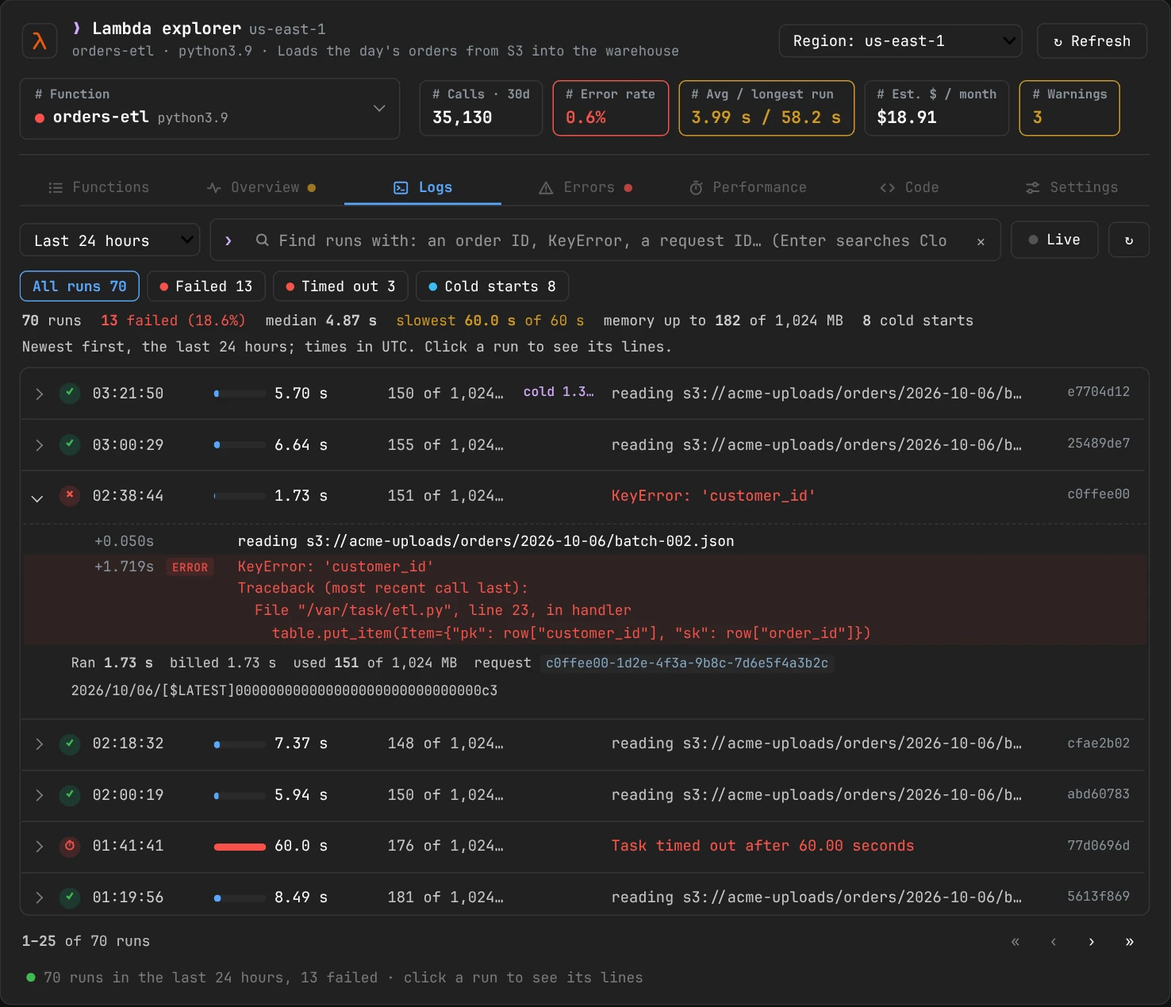
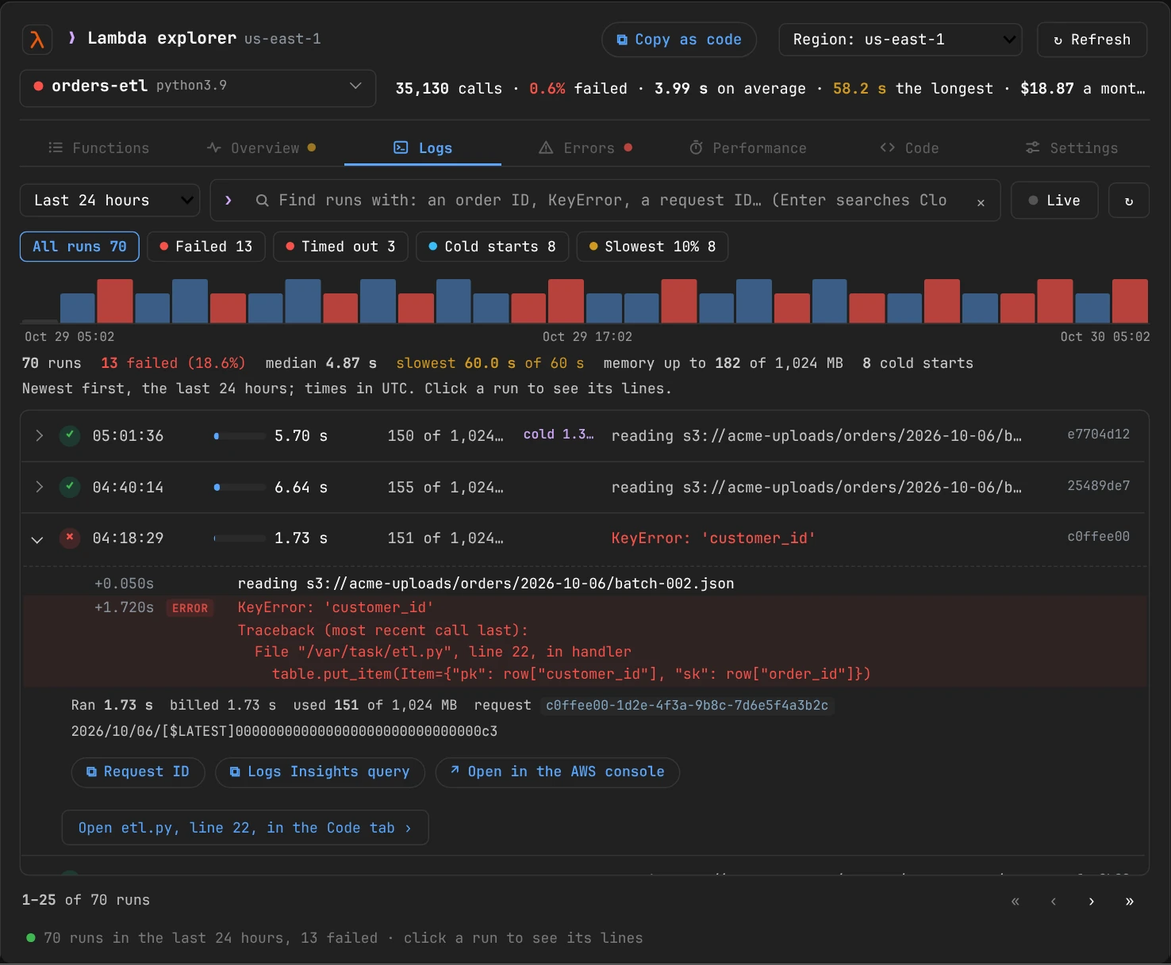
Lambda explorer: a slim header, an open run's links, and the docs for them
- With a function picked, the header is one line of its numbers over 30
  days (calls, failed, avg and max run time, cost, warnings) and loses its
  subtitle, so the tabs get the height; the region keeps its cards.
- The timeline's bars keep their colours under the terminal look.
- The guide, README and CHANGELOG cover the run's request ID, its Logs
  Insights query and console link, the one-call Copy as code, the read
  ahead and the slim header.

Claude-Session: https://claude.ai/code/session_011KqyjUnZQFFurzbSzx544L

diff --git a/src/aws_analyzer/lambda_functions/explorer/function.py b/src/aws_analyzer/lambda_functions/explorer/function.py
@@ -83,6 +83,12 @@ def _destination(arn: str | None) -> tuple[str, str]:
     return kind or "destination", _source_name(arn)[0] or (arn or "-")
 
 
+def _stat_cards_html(cards: list[tuple[str, str, str]]) -> str:
+    items = "".join(f'<div class="lmx-stat {tone}"><span class="l">{_esc(label)}</span><b>{_esc(value)}</b></div>'
+                    for label, value, tone in cards)
+    return f'<div class="lmx-stats">{items}</div>'
+
+
 class _FunctionTab:
     """
     The picked function in LambdaExplorer: opening it, its header (title, cards and alerts), and its Overview
@@ -106,59 +112,79 @@ class _FunctionTab:
 
     def _draw_stats(self) -> None:
         """
-        The cards beside the function field: the region at a glance, or the picked function.
+        Beside the function field: the region at a glance as cards, or, with a function picked, its numbers as one
+        line, so the header stays slim (no subtitle either) and its tabs get the height.
         """
-        now = _utcnow()
-        cards: list[tuple[str, str, str]] = []
-        loading = self._numbers_pending or (self.overview is None and self._listing)
+        _class_if(self.head_box, "lmx-slim", self.function is not None)
         if self.function is None:
-            facts = list(self._facts.values())
-            if self.overview is None:
-                cards = [("Functions", "…", "sk-on"), ("Calls · 30d", "…", "sk-on"), ("Error rate · 30d", "…", "sk-on")]
-            else:
-                read = [f.metrics for f in facts if f.metrics is not None]
-                calls = sum(m.invocations for m in read)
-                failed = sum(m.errors for m in read)
-                costs = [f.cost for f in facts if f.cost is not None]
-                warn = any(_errors_level(f.metrics, now) == "warn" for f in facts)
-                attention = sum(1 for f in facts if f.warnings)
-                cards.append(("Functions", f"{len(facts):,}", ""))
-                cards.append(("Calls · 30d", "…" if loading else _count(round(calls)), "sk-on" if loading else ""))
-                cards.append(("Error rate · 30d", "…" if loading else (_pct(failed / calls) if calls else "-"),
-                              "sk-on" if loading else "warn" if warn else ""))
-                cards.append(("Est. $ / month", "…" if loading else (human_money(sum(costs)) if costs else "-"),
-                              "sk-on" if loading else ""))
-                cards.append(("Need attention", f"{attention:,}", "warn" if attention else "ok" if facts else ""))
+            self._set(self.stats, _stat_cards_html(self._region_cards()))
         else:
-            fn = self._full()
-            f = self._facts.get(self.function.arn)
-            m = self.detail.metrics if self.detail is not None and self.detail.metrics is not None else (
-                f.metrics if f is not None else None)
-            if m is None:
-                waiting = loading or self.detail is None
-                cards += [(label, "…" if waiting else "-", "sk-on" if waiting else "")
-                          for label in ("Calls · 30d", "Error rate · 30d", "Avg / longest · 30d")]
-            else:
-                level = _errors_level(m, now)
-                near = bool(m.duration_max and fn.timeout and m.duration_max >= 0.9 * fn.timeout * 1000)
-                cards.append(("Calls · 30d", _count(round(m.invocations)), ""))
-                cards.append(("Error rate · 30d", _pct(m.error_rate) if m.invocations else "-",
-                              "bad" if level == "warn" else "warn" if level else ""))
-                cards.append(("Avg / longest · 30d", f"{human_ms(m.avg_duration)} / {human_ms(m.duration_max)}"
-                              if m.invocations else "not called in 30 days", "warn" if near else ""))
-            if self.detail is not None:
-                cost = _total(function_monthly_cost(fn, self.detail.metrics, self.detail.provisioned,
-                                                    self.detail.log_group, prices=self.core.prices))
-                warnings = sum(level == "warn" for level, _ in function_findings(
-                    fn, self.detail.metrics, self.detail, prices=self.core.prices, now=now))
-            else:
-                cost = f.cost if f is not None else None
-                warnings = len(f.warnings) if f is not None else 0
-            cards.append(("Est. $ / month", human_money(cost) if cost is not None else "-", ""))
-            cards.append(("Warnings", f"{warnings:,}", "warn" if warnings else "ok"))
-        html_cards = "".join(f'<div class="lmx-stat {tone}"><span class="l">{_esc(label)}</span><b>{_esc(value)}</b>'
-                             "</div>" for label, value, tone in cards)
-        self._set(self.stats, f'<div class="lmx-stats">{html_cards}</div>')
+            self._set(self.stats, self._function_line())
+
+    def _region_cards(self) -> list[tuple[str, str, str]]:
+        """
+        The region's cards: its functions, their calls and error rate over 30 days, the cost and how many need
+        attention.
+        """
+        if self.overview is None:
+            return [("Functions", "…", "sk-on"), ("Calls · 30d", "…", "sk-on"), ("Error rate · 30d", "…", "sk-on")]
+        loading = self._numbers_pending or self._listing
+        facts = list(self._facts.values())
+        read = [f.metrics for f in facts if f.metrics is not None]
+        calls = sum(m.invocations for m in read)
+        failed = sum(m.errors for m in read)
+        costs = [f.cost for f in facts if f.cost is not None]
+        warn = any(_errors_level(f.metrics, _utcnow()) == "warn" for f in facts)
+        attention = sum(1 for f in facts if f.warnings)
+        waiting = "sk-on" if loading else ""
+        return [
+            ("Functions", f"{len(facts):,}", ""),
+            ("Calls · 30d", "…" if loading else _count(round(calls)), waiting),
+            ("Error rate · 30d", "…" if loading else (_pct(failed / calls) if calls else "-"),
+             waiting or ("warn" if warn else "")),
+            ("Est. $ / month", "…" if loading else (human_money(sum(costs)) if costs else "-"), waiting),
+            ("Need attention", f"{attention:,}", "warn" if attention else "ok" if facts else ""),
+        ]
+
+    def _function_numbers(self) -> list[tuple[str, str, str]]:
+        """
+        The picked function's numbers, (value, what it is, tone): its calls, failed share and run times over 30
+        days, its cost and its warnings.
+        """
+        fn, now = self._full(), _utcnow()
+        f = self._facts.get(fn.arn)
+        m = self.detail.metrics if self.detail is not None and self.detail.metrics is not None else (
+            f.metrics if f is not None else None)
+        if m is None:
+            waiting = self._numbers_pending or self.detail is None
+            parts = [("…" if waiting else "-", "calls", "sk-on" if waiting else "")]
+        elif not m.invocations:
+            parts = [("0", "calls", "")]
+        else:
+            level = _errors_level(m, now)
+            near = bool(m.duration_max and fn.timeout and m.duration_max >= 0.9 * fn.timeout * 1000)
+            parts = [(_count(round(m.invocations)), "calls", ""),
+                     (_pct(m.error_rate), "failed", "bad" if level == "warn" else "warn" if level else ""),
+                     (human_ms(m.avg_duration), "avg", ""),
+                     (human_ms(m.duration_max), "max", "warn" if near else "")]
+        if self.detail is not None:
+            cost = _total(function_monthly_cost(fn, self.detail.metrics, self.detail.provisioned,
+                                                self.detail.log_group, prices=self.core.prices))
+            warnings = sum(level == "warn" for level, _ in function_findings(
+                fn, self.detail.metrics, self.detail, prices=self.core.prices, now=now))
+        else:
+            cost = f.cost if f is not None else None
+            warnings = len(f.warnings) if f is not None else 0
+        parts.append((f"{human_money(cost)}/mo" if cost is not None else "-", "", ""))
+        parts.append((f"{warnings:,}", "warning" if warnings == 1 else "warnings", "warn" if warnings else "ok"))
+        return parts
+
+    def _function_line(self) -> str:
+        pieces = " · ".join(f'<span class="{tone}"><b>{_esc(value)}</b>{" " if words else ""}{_esc(words)}</span>'
+                            for value, words, tone in self._function_numbers())
+        return (f'<div class="lmx-line" title="CloudWatch, the last 30 days: calls, the share that failed, the '
+                'average and longest run time; the monthly cost is estimated at list prices">'
+                f'{pieces}<span class="w"> · 30 days</span></div>')
 
     def _draw_alerts(self) -> None:
         """

diff --git a/src/aws_analyzer/lambda_functions/explorer/frame.py b/src/aws_analyzer/lambda_functions/explorer/frame.py
@@ -473,6 +473,22 @@ body[class*=vscode-] .lmx-app.lmx-app .lmx-page{height:620px}
 .lmx-app .src pre.txt{flex:1 1 auto;user-select:text}
 .lmx-app .src.hit pre{background:linear-gradient(var(--lx-hit),var(--lx-hit)) no-repeat 0 calc(8px + var(--mark) * 1.55em)/100% 1.55em}
 .lmx-app .srcx{margin:0 0 12px}
+.lmx-app.lmx-app .lmx-head.lmx-slim{gap:6px;padding-bottom:8px;margin-bottom:8px}
+.lmx-app.lmx-app .lmx-head.lmx-slim .lmx-sub{display:none}
+.lmx-app.lmx-app .lmx-head.lmx-slim .lmx-logo{width:26px;height:26px}
+.lmx-app.lmx-app .lmx-head.lmx-slim .lmx-meta{align-items:center;flex-wrap:nowrap}
+.lmx-app.lmx-app .lmx-head.lmx-slim .lmx-trig{min-height:32px}
+.lmx-app.lmx-app .lmx-head.lmx-slim .lmx-field{flex:0 0 300px;width:300px}
+.lmx-app.lmx-app .lmx-head.lmx-slim .fx{padding:6px 34px 6px 12px}
+.lmx-app.lmx-app .lmx-head.lmx-slim .fxl{display:none}
+.lmx-app.lmx-app .lmx-head.lmx-slim .fxv{margin-top:0}
+.lmx-app .lmx-line{font-size:12.5px;line-height:32px;white-space:nowrap;overflow:hidden;text-overflow:ellipsis;min-width:0}
+.lmx-app .lmx-line b{font-weight:650}
+.lmx-app .lmx-line .bad b{color:var(--lx-ink-bad)}
+.lmx-app .lmx-line .warn b{color:var(--lx-ink-warn)}
+.lmx-app .lmx-line .ok b{color:var(--lx-ink-ok)}
+.lmx-app .lmx-line .sk-on b{opacity:.5}
+.lmx-app .lmx-line .w{opacity:.6}
 .lmx-app .lmx-vc{align-self:center;margin:0 8px 0 0}
 .lmx-app .lmx-vc .cpy,.lmx-app .ract .cpy{position:relative;display:inline-flex;align-items:center;height:30px;padding:0 12px;border-radius:999px;border:1px solid var(--lx-line-2);background:var(--lx-tint);color:var(--lx-accent);font-size:12.5px;font-weight:600;white-space:nowrap;cursor:pointer;user-select:all;-webkit-user-select:all}
 .lmx-app .lmx-vc .cpy::before{content:"\\29C9\\2002 Copy as code"}
@@ -489,11 +505,11 @@ body[class*=vscode-] .lmx-app.lmx-app .lmx-page{height:620px}
 .lmx-app .lmx-vc .cpy .cpt,.lmx-app .ract .cpy .cpt{position:absolute;left:0;top:0;width:1px;height:1px;overflow:hidden;clip-path:inset(50%);white-space:pre}
 .lmx-app .lmx-vc .cpy ::selection,.lmx-app .lmx-vc .cpy::selection,.lmx-app .ract .cpy ::selection,.lmx-app .ract .cpy::selection{background:transparent}
 .lmx-app.lmx-app .lmx-timeline{height:38px;align-items:flex-end;gap:2px;margin:6px 0 0;padding:0 2px;border-bottom:1px solid var(--lx-line)}
-.lmx-app.lmx-app button.lmx-tbar{min-width:3px;padding:0;margin:0;border:0;border-radius:2px 2px 0 0;background:color-mix(in srgb,var(--lx-accent) 45%,transparent);box-shadow:none}
-.lmx-app.lmx-app button.lmx-tbar.lmx-bad{background:color-mix(in srgb,var(--lx-bad) 70%,transparent)}
-.lmx-app.lmx-app button.lmx-tbar:hover:enabled{filter:brightness(.85)}
-.lmx-app.lmx-app button.lmx-tbar:disabled{background:var(--lx-line);opacity:1;cursor:default}
-.lmx-app.lmx-app button.lmx-tbar.lmx-on{outline:2px solid var(--lx-accent);outline-offset:1px}
+.lmx-app.lmx-app button.lmx-tbar.lmx-tbar{min-width:3px;padding:0;margin:0;border:0;border-radius:2px 2px 0 0;background:color-mix(in srgb,var(--lx-accent) 45%,transparent);box-shadow:none}
+.lmx-app.lmx-app button.lmx-tbar.lmx-tbar.lmx-bad{background:color-mix(in srgb,var(--lx-bad) 70%,transparent)}
+.lmx-app.lmx-app button.lmx-tbar.lmx-tbar:hover:enabled{filter:brightness(.85)}
+.lmx-app.lmx-app button.lmx-tbar.lmx-tbar:disabled{background:var(--lx-line);opacity:1;cursor:default}
+.lmx-app.lmx-app button.lmx-tbar.lmx-tbar.lmx-on{outline:2px solid var(--lx-accent);outline-offset:1px}
 .lmx-app .lmx-taxis{display:flex;justify-content:space-between;font-size:10.5px;opacity:.55;margin:2px 2px 4px}
 .lmx-app .lmx-changed{display:flex;align-items:center;gap:10px;margin:6px 0;font-size:11.5px;color:var(--lx-accent-2)}
 .lmx-app .lmx-changed::before,.lmx-app .lmx-changed::after{content:"";flex:1 1 auto;border-top:1.5px dashed var(--lx-accent-2);opacity:.55}

diff --git a/tests/test_lambda_functions.py b/tests/test_lambda_functions.py
@@ -104,6 +104,8 @@ from aws_analyzer.lambda_functions import (
     search_rank,
     secret_like,
     source_files,
+    run_console_url,
+    run_insights_query,
     run_timeline,
     slow_cutoff,
     split_runs,
@@ -2543,8 +2545,8 @@ def test_explorer_lists_the_functions_and_opens_one(explorer):
     row_of(x, "etl-nightly").button.click()
     assert x.function.name == "etl-nightly" and x._tab == "overview" and x.detail.function.tags == {"team": "ml"}
     assert "etl-nightly python3.9" in plain(x.field.face.value) and "lmx-on" in row_of(x, "etl-nightly").box._dom_classes
-    assert plain(x.stats.value) == ("Calls · 30d 1,000 Error rate · 30d 4.0% Avg / longest · 30d 250 ms / 4m 10s "
-                                    "Est. $ / month <$0.01 Warnings 3")
+    assert plain(x.stats.value) == "1,000 calls · 4.0% failed · 250 ms avg · 4m 10s max · <$0.01/mo · 3 warnings · 30 days"
+    assert "lmx-slim" in x.head_box._dom_classes
     overview = plain(x.overview_view.value)
     assert "Runtime python3.9 (ended) Memory 1,024 MB Timeout 900 s Architecture x86_64 Triggers 2" in overview
     assert "Calls (30d)" not in overview  # the header shows the numbers
@@ -3032,6 +3034,27 @@ def test_explorer_gives_the_call_that_reopens_it(core, explorer):
     assert [run.request_id for run in again._found_runs] == [RID]
     assert again._view_code() == "explore('etl-nightly', tab='logs', since='3h', search='loading')"
 
+
+
+
+def test_a_run_in_the_console_and_in_logs_insights():
+    url = run_console_url("us-east-1", "/aws/lambda/etl", "2026/10/06/[$LATEST]abc", RID)
+    assert url == ("https://us-east-1.console.aws.amazon.com/cloudwatch/home?region=us-east-1#logsV2:log-groups/"
+                   "log-group/$252Faws$252Flambda$252Fetl/log-events/2026$252F10$252F06$252F$255B$2524LATEST$255Dabc"
+                   f"$3FfilterPattern$3D$2522{RID}$2522")
+    assert run_console_url("cn-north-1", "g", "s", "r").startswith("https://cn-north-1.console.amazonaws.cn/")
+    assert run_insights_query(RID) == (f'fields @timestamp, @message\n| filter @requestId = "{RID}" or @message like '
+                                       f'"{RID}"\n| sort @timestamp asc')
+
+
+def test_explorer_open_run_has_its_actions(core, explorer):
+    x = explorer("etl-nightly", tab="logs")
+    x._run_rows[0].button.click()
+    body = x._run_rows[0].body.value
+    assert f'<span class="cpt">{RID}</span>' in body and "filter @requestId" in body
+    stream = x._run_rows[0].run.stream
+    assert html.escape(run_console_url(REGION, "/aws/lambda/etl-nightly", stream, RID)) in body
+    assert 'target="_blank"' in body and "Open in the AWS console" in body
 
 
 NESTED = zipped({

diff --git a/src/aws_analyzer/lambda_functions/explorer/window.py b/src/aws_analyzer/lambda_functions/explorer/window.py
@@ -453,6 +453,7 @@ class LambdaExplorer(_FunctionsTab, _FunctionTab, _LogsTab, _Timeline, _ErrorsTa
         meta.add_class("lmx-meta")
         head = w.VBox([top, meta], layout=layout(width="100%"))
         head.add_class("lmx-head")
+        self.head_box = head
 
         tabs = self._tab_bar(_EXPLORER_TABS)
 

diff --git a/docs/lambda_functions.md b/docs/lambda_functions.md
@@ -163,12 +163,12 @@ ui.explore("orders-etl")                 # from a LambdaView
 
 ??? more "The top of the window, and without ipywidgets"
 
-    **The top of the window** is the region field, the function field and their cards. **⧉ Copy as code** beside the region field holds the code that opens the window as it is now (the function, its tab, the region, and on the Logs tab the time range and the search): click it, press <kbd>Ctrl</kbd>+<kbd>C</kbd>, and paste it in another cell or a message. A function you open again within 5 minutes shows at once, as the window read it then; **↻ Refresh** reads everything again. The region field switches to another region, or to every region at once. Click the function field for every function, with a search box that finds one by its name, description, runtime or region; Enter picks the first, and a function's ARN or console link works too, even one in another region. With no function picked, the cards sum up the region: its functions, their calls and error rate over 30 days (each card names its window), the estimated monthly cost, and how many need attention. With one picked, they're its own. The line at the bottom of the window says what's going on.
+    **The top of the window** is the region field, the function field and their cards. **⧉ Copy as code** beside the region field holds the one call that opens the window as it is now, such as `explore('orders-etl', tab='logs', since='3h', search='KeyError')`: click it, press <kbd>Ctrl</kbd>+<kbd>C</kbd>, and paste it in another cell or a message. Once a function is picked, the header shrinks to one line of its numbers over 30 days, so the tabs get the height. When the list loads, the window reads the function at the top of its problems in the background, so the one you're most likely to click opens at once; a function you open again within 5 minutes shows at once too, as the window read it then. **↻ Refresh** reads everything again. The region field switches to another region, or to every region at once. Click the function field for every function, with a search box that finds one by its name, description, runtime or region; Enter picks the first, and a function's ARN or console link works too, even one in another region. With no function picked, the cards sum up the region: its functions, their calls and error rate over 30 days (each card names its window), the estimated monthly cost, and how many need attention. With one picked, they're its own. The line at the bottom of the window says what's going on.
 
     The window needs `ipywidgets`, which SageMaker notebooks already have (elsewhere, `%pip install ipywidgets`, then reload the browser tab). Without it, or outside Jupyter, `explore()` shows the same as reports: [`functions()`](#functions), or for one function [`function_info()`](#function-info) or the report of the tab you asked for.
 
-![The Functions tab of the explorer: the region field, the function field and cards for 5 functions, 192,496 calls in 30 days, a 0.3% error rate over 30 days, $93.59 a month and 4 that need attention; chips for the functions that need attention, have errors, run an old runtime, are public or weren't called; and the list, problems first, each with a bar a day for its last 14 days of calls: orders-etl on python3.9 (ended), its line saying in red that 224 of 35,130 calls failed (0.6%) in the last 30 days, report-api on nodejs20.x (ended), its line saying its runtime reached end of support, churn-scoring, feature-backfill not called in 30 days, and support-agent-actions with its description, each with its calls, error rate, average run time, monthly cost and when it was last called](images/lambda-explorer-light.webp#only-light){ width="984" height="861" loading=lazy }
-![The Functions tab of the explorer: the region field, the function field and cards for 5 functions, 192,496 calls in 30 days, a 0.3% error rate over 30 days, $93.59 a month and 4 that need attention; chips for the functions that need attention, have errors, run an old runtime, are public or weren't called; and the list, problems first, each with a bar a day for its last 14 days of calls: orders-etl on python3.9 (ended), its line saying in red that 224 of 35,130 calls failed (0.6%) in the last 30 days, report-api on nodejs20.x (ended), its line saying its runtime reached end of support, churn-scoring, feature-backfill not called in 30 days, and support-agent-actions with its description, each with its calls, error rate, average run time, monthly cost and when it was last called](images/lambda-explorer-dark.webp#only-dark){ width="984" height="861" loading=lazy }
+![The Functions tab of the explorer: the region field, the function field and cards for 5 functions, 192,496 calls in 30 days, a 0.3% error rate over 30 days, $93.59 a month and 4 that need attention; chips for the functions that need attention, have errors, run an old runtime, are public or weren't called; and the list, problems first, each with a bar a day for its last 14 days of calls: orders-etl on python3.9 (ended), its line saying in red that 224 of 35,130 calls failed (0.6%) in the last 30 days, report-api on nodejs20.x (ended), its line saying its runtime reached end of support, churn-scoring, feature-backfill not called in 30 days, and support-agent-actions with its description, each with its calls, error rate, average run time, monthly cost and when it was last called](images/lambda-explorer-light.webp#only-light){ width="984" height="863" loading=lazy }
+![The Functions tab of the explorer: the region field, the function field and cards for 5 functions, 192,496 calls in 30 days, a 0.3% error rate over 30 days, $93.59 a month and 4 that need attention; chips for the functions that need attention, have errors, run an old runtime, are public or weren't called; and the list, problems first, each with a bar a day for its last 14 days of calls: orders-etl on python3.9 (ended), its line saying in red that 224 of 35,130 calls failed (0.6%) in the last 30 days, report-api on nodejs20.x (ended), its line saying its runtime reached end of support, churn-scoring, feature-backfill not called in 30 days, and support-agent-actions with its description, each with its calls, error rate, average run time, monthly cost and when it was last called](images/lambda-explorer-dark.webp#only-dark){ width="984" height="863" loading=lazy }
 /// caption
 **Functions**: every function with its last 14 days, what's wrong with it, its calls, error rate, run time and cost, the ones that need attention first.
 ///
@@ -215,8 +215,8 @@ The **Logs** tab is CloudWatch grouped the way you think about it: one line per 
 
 Each run shows how long it ran against the timeout, the memory it used, a cold start, and what made it fail. Times are in UTC, or in the zone [`set_timezone()`](index.md#timezone) picked.
 
-![The Logs tab of orders-etl over the last 24 hours: the time range, the search box, Live and ↻; chips for all 70 runs, 13 failed, 3 timed out, 8 cold starts and the slowest 10%; a timeline of the 24 hours, a bar for each slice, red where runs failed; a line saying 70 runs, 13 failed (18.6%), a median of 4.87 s, the slowest 60.0 s of 60 s, memory up to 182 of 1,024 MB and 8 cold starts; then the runs, newest first, each with its time, a ✓ or ✕, a bar of its run time against the timeout, its memory and its first line; a failed run is open, showing reading s3://acme-uploads/orders/2026-10-06/batch-002.json at +0.050s, then KeyError: 'customer_id' and its traceback in red, then Ran 1.73 s, billed 1.73 s, used 151 of 1,024 MB and its request ID, and a button that opens etl.py, line 22, in the Code tab; under it a run that timed out after 60.0 s with a full red bar](images/lambda-explorer-logs-light.webp#only-light){ width="984" height="861" loading=lazy }
-![The Logs tab of orders-etl over the last 24 hours: the time range, the search box, Live and ↻; chips for all 70 runs, 13 failed, 3 timed out, 8 cold starts and the slowest 10%; a timeline of the 24 hours, a bar for each slice, red where runs failed; a line saying 70 runs, 13 failed (18.6%), a median of 4.87 s, the slowest 60.0 s of 60 s, memory up to 182 of 1,024 MB and 8 cold starts; then the runs, newest first, each with its time, a ✓ or ✕, a bar of its run time against the timeout, its memory and its first line; a failed run is open, showing reading s3://acme-uploads/orders/2026-10-06/batch-002.json at +0.050s, then KeyError: 'customer_id' and its traceback in red, then Ran 1.73 s, billed 1.73 s, used 151 of 1,024 MB and its request ID, and a button that opens etl.py, line 22, in the Code tab; under it a run that timed out after 60.0 s with a full red bar](images/lambda-explorer-logs-dark.webp#only-dark){ width="984" height="861" loading=lazy }
+![The Logs tab of orders-etl over the last 24 hours: the time range, the search box, Live and ↻; chips for all 70 runs, 13 failed, 3 timed out, 8 cold starts and the slowest 10%; a timeline of the 24 hours, a bar for each slice, red where runs failed; a line saying 70 runs, 13 failed (18.6%), a median of 4.87 s, the slowest 60.0 s of 60 s, memory up to 182 of 1,024 MB and 8 cold starts; then the runs, newest first, each with its time, a ✓ or ✕, a bar of its run time against the timeout, its memory and its first line; a failed run is open, showing reading s3://acme-uploads/orders/2026-10-06/batch-002.json at +0.050s, then KeyError: 'customer_id' and its traceback in red, then Ran 1.73 s, billed 1.73 s, used 151 of 1,024 MB and its request ID, and a button that opens etl.py, line 22, in the Code tab; under it a run that timed out after 60.0 s with a full red bar](images/lambda-explorer-logs-light.webp#only-light){ width="984" height="811" loading=lazy }
+![The Logs tab of orders-etl over the last 24 hours: the time range, the search box, Live and ↻; chips for all 70 runs, 13 failed, 3 timed out, 8 cold starts and the slowest 10%; a timeline of the 24 hours, a bar for each slice, red where runs failed; a line saying 70 runs, 13 failed (18.6%), a median of 4.87 s, the slowest 60.0 s of 60 s, memory up to 182 of 1,024 MB and 8 cold starts; then the runs, newest first, each with its time, a ✓ or ✕, a bar of its run time against the timeout, its memory and its first line; a failed run is open, showing reading s3://acme-uploads/orders/2026-10-06/batch-002.json at +0.050s, then KeyError: 'customer_id' and its traceback in red, then Ran 1.73 s, billed 1.73 s, used 151 of 1,024 MB and its request ID, and a button that opens etl.py, line 22, in the Code tab; under it a run that timed out after 60.0 s with a full red bar](images/lambda-explorer-logs-dark.webp#only-dark){ width="984" height="811" loading=lazy }
 /// caption
 **Logs**: orders-etl's last 24 hours, run by run, with a failed run open: its traceback, and its REPORT line summed up.
 ///
@@ -229,6 +229,7 @@ Each run shows how long it ran against the timeout, the memory it used, a cold s
     - **A dashed line across the runs** marks when the function was last changed (its code or settings): the runs under it ran it as it was before.
     - **The timeline** over the runs is a bar for each thirtieth of the time read, as tall as the runs that started in it and red where some failed. Click a bar for only those runs, and again for every run.
     - **Slowest 10%** shows the runs that took the longest (with 10 runs or more read).
+    - **An open run** has its request ID and a CloudWatch Logs Insights query for it to copy (click, then <kbd>Ctrl</kbd>+<kbd>C</kbd>), and **↗ Open in the AWS console**, its log stream filtered to that run.
     - **A failed run's traceback** (Python's `File "/var/task/etl.py", line 22`, or a Node.js stack) gets a button under its lines that opens that file in the Code tab, the lines around the failing one at the top and that line shaded in the whole file below. Frames in libraries the package bundles are skipped for the function's own code.
     - **Live** looks for new lines every 5 seconds and puts the new runs at the top, to watch a function while you test it. It stops when you leave the tab, and after 15 minutes.
 
@@ -647,7 +648,7 @@ lam.versions("orders-etl")                        # Version per published versio
 diff = lam.diff("orders-etl", 3)                  # VersionDiff: .files (FileChange: lines, definitions), .libraries, .settings
 ```
 
-The analysis functions don't call AWS, so they also work on data you already have: `parse_function`, `parse_policy`, `parse_event_source_mapping`, `runtime_status`, `function_monthly_cost`, `provisioned_monthly_cost`, `classify_error`, `group_errors`, `change_effect` (its calls and errors before and after its last change), `cause_search` (what to search the logs for to find a cause's runs), `code_frames` and `failing_frame` (the lines of the package a traceback names), `parse_report`, `split_runs` (log lines grouped into runs), `run_timeline` (runs counted by slice of time), `slow_cutoff` (the run time of the slowest 10%), `line_level`, `percentile`, `suggest_memory`, `handler_file`, `read_package` (a .zip you already have), `package_file_name`, `page_file_name`, `secret_like`, `source_files` (a package's own source files), `read_sources` (`sources()`: the text of a .zip's own source files), `search_package` and `find_symbol_in` (`search_code()` and `find_symbol()` on a .zip's bytes), `map_code` (Python code read with `ast`, [above](#how-it-works)), `map_package` (the same from a .zip's bytes), `code_graph` (a CodeMap as boxes and arrows, with `.mermaid()`), `diff_packages` (`diff()` on two .zip files you already have), `diff_settings`, `version_before` (the version `diff()` compares with), `stream_version` (the version a log stream's name says ran), and the findings: `function_findings`, `account_findings`, `error_findings`, `performance_findings`, `package_findings`, `code_map_findings`, `diff_findings`.
+The analysis functions don't call AWS, so they also work on data you already have: `parse_function`, `parse_policy`, `parse_event_source_mapping`, `runtime_status`, `function_monthly_cost`, `provisioned_monthly_cost`, `classify_error`, `group_errors`, `change_effect` (its calls and errors before and after its last change), `cause_search` (what to search the logs for to find a cause's runs), `code_frames` and `failing_frame` (the lines of the package a traceback names), `parse_report`, `split_runs` (log lines grouped into runs), `run_timeline` (runs counted by slice of time), `slow_cutoff` (the run time of the slowest 10%), `run_console_url` and `run_insights_query` (a run in the AWS console and in Logs Insights), `line_level`, `percentile`, `suggest_memory`, `handler_file`, `read_package` (a .zip you already have), `package_file_name`, `page_file_name`, `secret_like`, `source_files` (a package's own source files), `read_sources` (`sources()`: the text of a .zip's own source files), `search_package` and `find_symbol_in` (`search_code()` and `find_symbol()` on a .zip's bytes), `map_code` (Python code read with `ast`, [above](#how-it-works)), `map_package` (the same from a .zip's bytes), `code_graph` (a CodeMap as boxes and arrows, with `.mermaid()`), `diff_packages` (`diff()` on two .zip files you already have), `diff_settings`, `version_before` (the version `diff()` compares with), `stream_version` (the version a log stream's name says ran), and the findings: `function_findings`, `account_findings`, `error_findings`, `performance_findings`, `package_findings`, `code_map_findings`, `diff_findings`.
 
 ```python
 from aws_analyzer.lambda_functions import parse_report, runtime_status, suggest_memory

diff --git a/README.md b/README.md
@@ -1924,7 +1924,7 @@ lam.diff("orders-etl", 3).files                        # FileChange per changed 
 
 The analysis functions are pure (no AWS calls), so they also work on configurations, policies and log lines you
 already have: `parse_function`, `parse_policy`, `parse_event_source_mapping`, `runtime_status`,
-`function_monthly_cost`, `provisioned_monthly_cost`, `classify_error`, `group_errors`, `change_effect`, `cause_search`, `code_frames`, `failing_frame`, `parse_report`, `split_runs`, `run_timeline`, `slow_cutoff`
+`function_monthly_cost`, `provisioned_monthly_cost`, `classify_error`, `group_errors`, `change_effect`, `cause_search`, `code_frames`, `failing_frame`, `parse_report`, `split_runs`, `run_timeline`, `slow_cutoff`, `run_console_url`, `run_insights_query`
 (log lines grouped into runs), `line_level`, `percentile`, `suggest_memory`, `handler_file`, `read_package`,
 `package_file_name`, `page_file_name`, `secret_like`, `source_files` (a package's own source files),
 `read_sources` (sources(): the text of a .zip's own source files), `search_package` and `find_symbol_in` (search_code and find_symbol on a .zip's bytes), `map_code` (Python code read with `ast`: `map_code({"app.py": source},

diff --git a/CHANGELOG.md b/CHANGELOG.md
@@ -23,8 +23,13 @@ changes what one shows, and a patch (0.1.1) only fixes things. A change that cou
 
 - ⚡ **Lambda explorer: a timeline, the slowest runs and code to reopen it** ([#172](https://github.com/utkarsh5026/aws-analyzer/pull/172))
   - The Logs tab draws its runs over time, red where they failed; click a bar for only those runs. **Slowest 10%** picks out the slow ones.
-  - **⧉ Copy as code** holds the code that opens the window as it is now, to run in another cell or send to someone.
+  - **⧉ Copy as code** holds the one call that opens it as it is now: `explore('orders-etl', tab='logs', since='3h', search='KeyError')`.
   - A function you open again within 5 minutes shows at once; ↻ Refresh reads it again.
+
+- ⚡ **Lambda explorer: a run's links, a slim header, the first problem read ahead** ([#172](https://github.com/utkarsh5026/aws-analyzer/pull/172))
+  - An open run has its request ID and a Logs Insights query to copy, and opens in the AWS console.
+  - With a function picked, the header is one line of its numbers, so the tabs get the height.
+  - The function at the top of the problems is read in the background, so it opens at once.
 
 ### Changed
 
